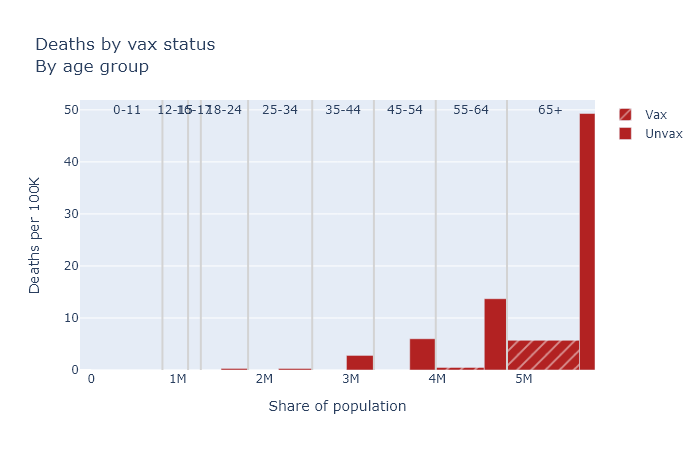
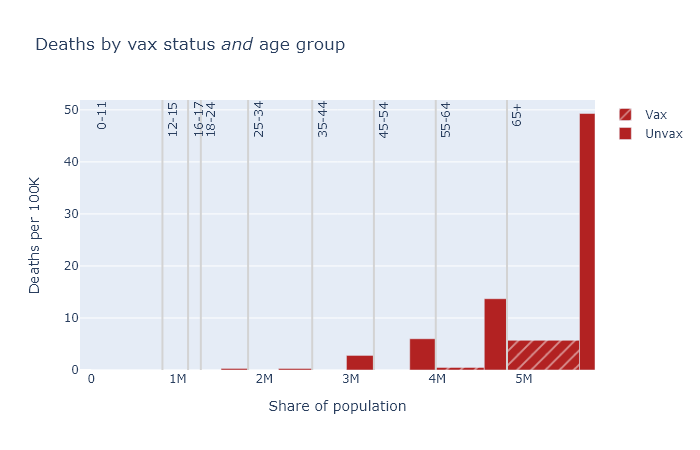
Vax bar plots again

diff --git a/BlogVaccineEffectiveness.py b/BlogVaccineEffectiveness.py
@@ -139,9 +139,9 @@ def plotly_vax_age_bar(vax_age, outcome, priority='Age group', group=None):
         for gg, group in enumerate(grouptext):
             fig.add_annotation(
                 text=group,
-                x=grouped_x.iloc[gg], 
-                yref='paper', y=1, yanchor='top', 
-                xanchor='center', align='center', 
+                x=grouped_edge.iloc[gg], xanchor='left', align='left',
+                yref='paper', y=1, yanchor='top',  
+                textangle=-90, valign='top',
                 showarrow=False,
             )
             if gg != 0:
@@ -293,7 +293,7 @@ outcome = 'Deaths'
 fig = plotly_vax_age_bar(vax_age_all, outcome)
 
 fig.update_layout(
-    title_text = outcome + " by vax status<br>By age group",
+    title_text = outcome + " by vax status <i>and</i> age group",
     uniformtext=dict(mode="hide", minsize=10),
     )
 
